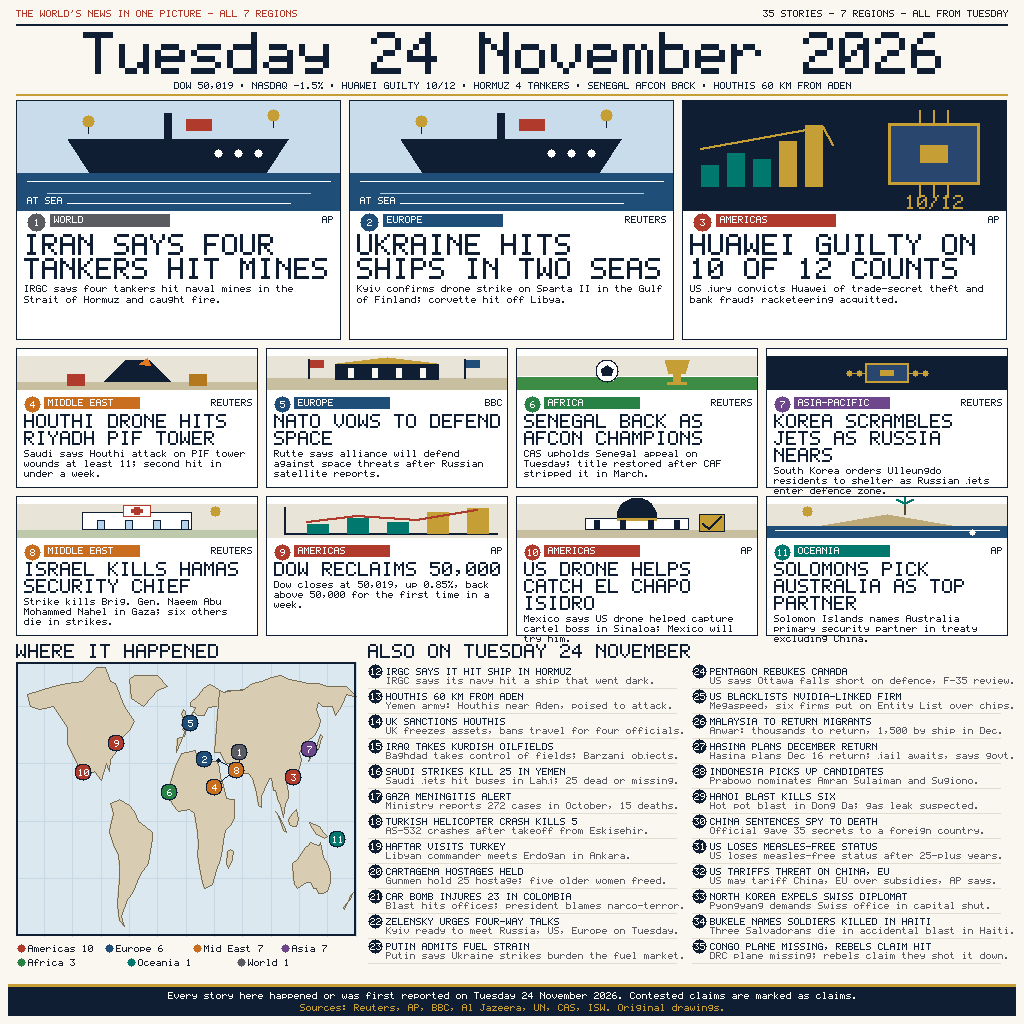
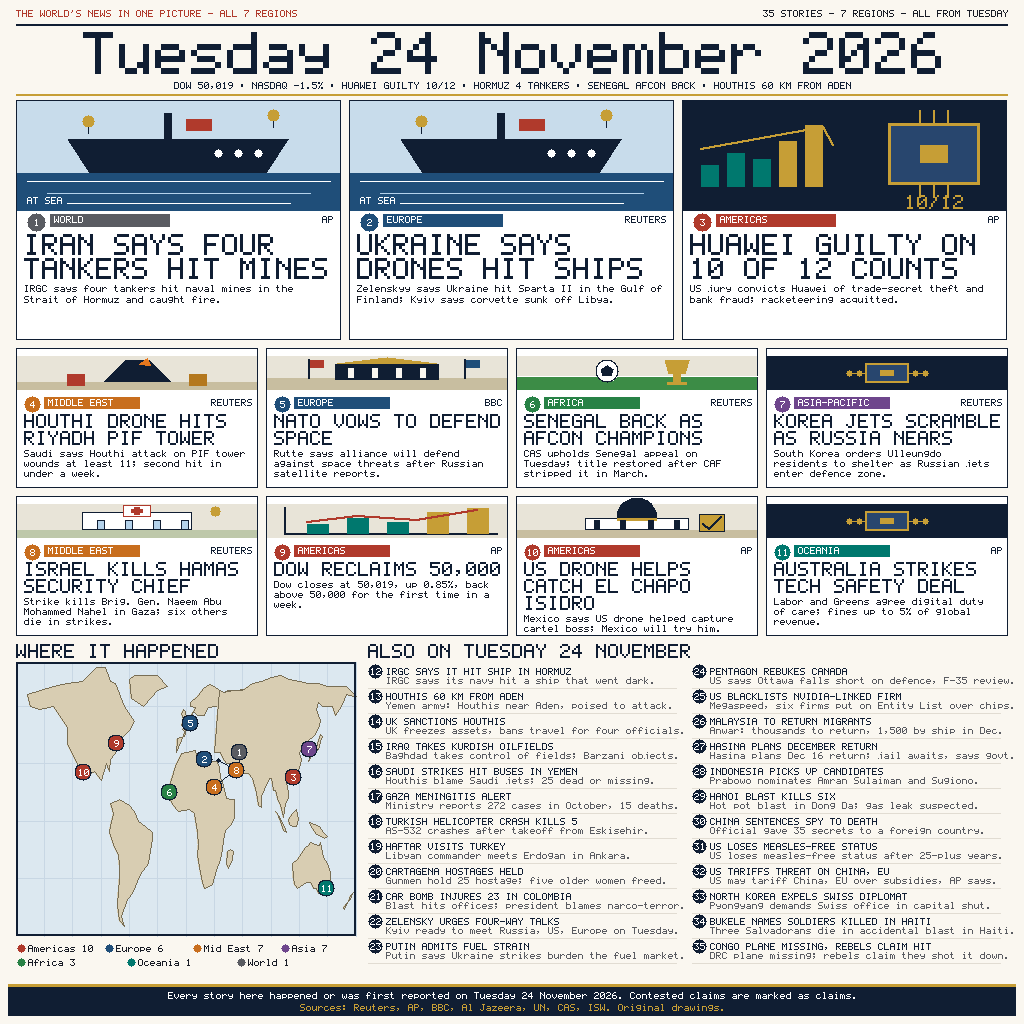
final: attribution fixes, Solomons replaced by Australia tech deal, card padding

diff --git a/main.py b/main.py
@@ -273,7 +273,7 @@ PINS = [
     (8, 34.47, 31.5, 18, 10),     # Gaza
     (9, -74.01, 40.71, 0, 0),     # New York (NYSE)
     (10, -108.5, 25.57, 0, 0),    # Guasave, Sinaloa
-    (11, 159.97, -9.65, 0, 0),    # Honiara, Solomon Islands
+    (11, 149.13, -35.28, 0, 0),   # Canberra, Australia
 ]
 PIN_REGIONS = ["WORLD", "EUROPE", "AMERICAS", "MIDDLE EAST", "EUROPE",
                "AFRICA", "ASIA-PACIFIC", "MIDDLE EAST", "AMERICAS",
@@ -449,14 +449,17 @@ def draw_hero(cv, x, y, w, h, kind):
 # Reuters, AP, BBC, ISW, USA Today. ICJ Myanmar ruling (19 Nov) NOT used as a
 # Nov 24 story — the Nov 24 item is Malaysia's return plan instead. The
 # Villavicencio car bomb happened Monday night but was first reported Tuesday.
-# #11 Solomons treaty: AP dateline Nov 24 (late EST). #21 car bomb: Monday night.
+# Sparta II was hit Sat 21 Nov; the Nov 24 news is Zelenskyy's confirmation.
+# Lahj bus strike happened Mon 23 Nov, reported Tue 24 Nov; attribution contested.
+# #11 was the Solomons treaty — REPLACED: it was signed Wed 25 Nov in Canberra,
+# so #11 is now Australia's Tue 24 Nov online-safety deal (Labor-Greens agreement).
 FEATURES = [
     (1, "WORLD", "AP", "naval",
      "IRAN SAYS FOUR TANKERS HIT MINES",
      "IRGC says four tankers hit naval mines in the Strait of Hormuz and caught fire."),
     (2, "EUROPE", "Reuters", "naval",
-     "UKRAINE HITS SHIPS IN TWO SEAS",
-     "Kyiv confirms drone strike on Sparta II in the Gulf of Finland; corvette hit off Libya."),
+     "UKRAINE SAYS DRONES HIT SHIPS",
+     "Zelenskyy says Ukraine hit Sparta II in the Gulf of Finland; Kyiv says corvette sunk off Libya."),
     (3, "AMERICAS", "AP", "tech",
      "HUAWEI GUILTY ON 10 OF 12 COUNTS",
      "US jury convicts Huawei of trade-secret theft and bank fraud; racketeering acquitted."),
@@ -470,7 +473,7 @@ FEATURES = [
      "SENEGAL BACK AS AFCON CHAMPIONS",
      "CAS upholds Senegal appeal on Tuesday; title restored after CAF stripped it in March."),
     (7, "ASIA-PACIFIC", "Reuters", "tech",
-     "KOREA SCRAMBLES JETS AS RUSSIA NEARS",
+     "KOREA JETS SCRAMBLE AS RUSSIA NEARS",
      "South Korea orders Ulleungdo residents to shelter as Russian jets enter defence zone."),
     (8, "MIDDLE EAST", "Reuters", "hospital",
      "ISRAEL KILLS HAMAS SECURITY CHIEF",
@@ -480,17 +483,17 @@ FEATURES = [
      "Dow closes at 50,019, up 0.85%, back above 50,000 for the first time in a week."),
     (10, "AMERICAS", "AP", "elections",
      "US DRONE HELPS CATCH EL CHAPO ISIDRO",
-     "Mexico says US drone helped capture cartel boss in Sinaloa; Mexico will try him."),
-    (11, "OCEANIA", "AP", "climate",
-     "SOLOMONS PICK AUSTRALIA AS TOP PARTNER",
-     "Solomon Islands names Australia primary security partner in treaty excluding China."),
+     "Mexico says US drone helped capture cartel boss; Mexico will try him."),
+    (11, "OCEANIA", "AP", "tech",
+     "AUSTRALIA STRIKES TECH SAFETY DEAL",
+     "Labor and Greens agree digital duty of care; fines up to 5% of global revenue."),
 ]
 DIGEST = [
     (12, "IRGC SAYS IT HIT SHIP IN HORMUZ", "IRGC says its navy hit a ship that went dark."),
     (13, "HOUTHIS 60 KM FROM ADEN", "Yemen army: Houthis near Aden, poised to attack."),
     (14, "UK SANCTIONS HOUTHIS", "UK freezes assets, bans travel for four officials."),
     (15, "IRAQ TAKES KURDISH OILFIELDS", "Baghdad takes control of fields; Barzani objects."),
-    (16, "SAUDI STRIKES KILL 25 IN YEMEN", "Saudi jets hit buses in Lahj; 25 dead or missing."),
+    (16, "SAUDI STRIKES HIT BUSES IN YEMEN", "Houthis blame Saudi jets; 25 dead or missing."),
     (17, "GAZA MENINGITIS ALERT", "Ministry reports 272 cases in October, 15 deaths."),
     (18, "TURKISH HELICOPTER CRASH KILLS 5", "AS-532 crashes after takeoff from Eskisehir."),
     (19, "HAFTAR VISITS TURKEY", "Libyan commander meets Erdogan in Ankara."),

diff --git a/README.md b/README.md
@@ -23,7 +23,7 @@ Every story happened or was first reported on Tuesday 24 November 2026. Conteste
 | # | Story | Source |
 |---|-------|--------|
 | 1 | Iran says four tankers hit mines — IRGC says four tankers hit naval mines in the Strait of Hormuz and caught fire. | AP |
-| 2 | Ukraine hits ships in two seas — Kyiv confirms drone strike on Sparta II in the Gulf of Finland; corvette hit off Libya. | Reuters |
+| 2 | Ukraine says drones hit ships — Zelenskyy says Ukraine hit Sparta II in the Gulf of Finland; Kyiv says corvette sunk off Libya. (Strikes were Sat 21–Sun 22 Nov; the Nov 24 news is Zelenskyy's confirmation.) | Reuters, Bloomberg |
 | 3 | Huawei guilty on 10 of 12 counts — US jury convicts Huawei of trade-secret theft and bank fraud; racketeering acquitted. | AP |
 | 4 | Houthi drone hits Riyadh PIF tower — Saudi says attack wounds at least 11; second hit in under a week. | Reuters |
 | 5 | NATO vows to defend space — Rutte says alliance will defend against space threats after Russian satellite reports. | BBC |
@@ -32,12 +32,12 @@ Every story happened or was first reported on Tuesday 24 November 2026. Conteste
 | 8 | Israel kills Hamas security chief — Strike kills Brig. Gen. Naeem Abu Mohammed Nahel in Gaza; six others die. | Reuters |
 | 9 | Dow reclaims 50,000 — Dow closes at 50,019, up 0.85%, back above 50,000 for the first time in a week; Nasdaq falls 1.5%. (NOT a first-ever close — it had closed above 50,000 on Nov 18.) | AP, MarketWatch |
 | 10 | US drone helps catch El Chapo Isidro — Mexico says US drone helped capture cartel boss in Sinaloa; Mexico will try him. | AP |
-| 11 | Solomons pick Australia as top partner — Solomon Islands names Australia primary security partner in treaty excluding China. | AP |
+| 11 | Australia strikes tech safety deal — Labor and Greens agree digital duty of care; fines up to 5% of global revenue. (Deal struck Tuesday 24 Nov; bill passed Wednesday.) | AP, Guardian, SMH |
 | 12 | IRGC says it hit ship in Hormuz — IRGC says its navy hit a ship that went dark. | AP |
 | 13 | Houthis 60 km from Aden — Yemen army: Houthis near Aden, poised to attack. | Reuters |
 | 14 | UK sanctions Houthis — UK freezes assets, bans travel for four officials. | Reuters |
 | 15 | Iraq takes Kurdish oilfields — Baghdad takes control of fields; Barzani objects. | Reuters |
-| 16 | Saudi strikes kill 25 in Yemen — Saudi jets hit buses in Lahj; 25 dead or missing. | Reuters |
+| 16 | Saudi strikes hit buses in Yemen — Houthis blame Saudi jets; 25 dead or missing. (Strike was Mon 23 Nov, reported Tue 24 Nov; attacker disputed by local officials.) | Houthi media, AFP |
 | 17 | Gaza meningitis alert — Ministry reports 272 cases in October, 15 deaths. | Reuters |
 | 18 | Turkish helicopter crash kills 5 — AS-532 crashes after takeoff from Eskisehir. | Reuters |
 | 19 | Haftar visits Turkey — Libyan commander meets Erdogan in Ankara. | Reuters |
